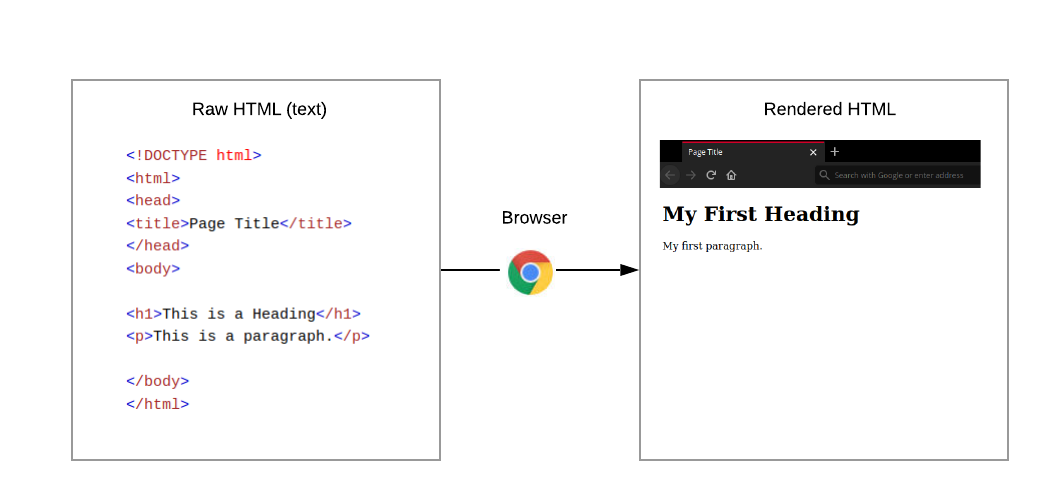
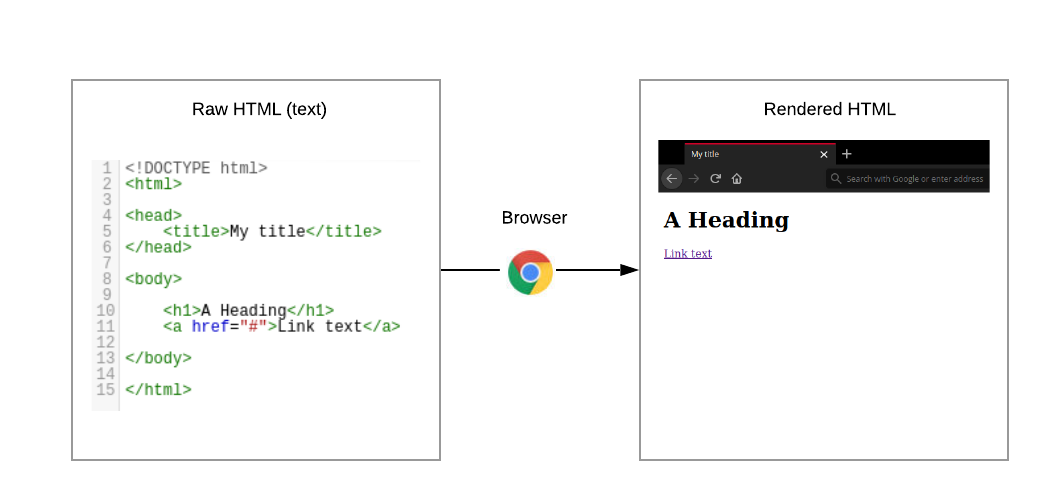
added explantions in section 1

Changed region(s): [[0.0916, 0.3, 0.3969, 0.84], [0.6107, 0.27, 0.9466, 0.54]]

diff --git a/data/intro_html_example.html b/data/intro_html_example.html
@@ -1,12 +1,12 @@
 <!DOCTYPE html>
 <html>
 <head>
-<title>Page Title</title>
+<title>My title</title>
 </head>
 <body>
 
-<h1>My First Heading</h1>
-<p>My first paragraph.</p>
+<h1>A Heading</h1>
+<a href="#">Link text</a>
 
 </body>
 </html>
